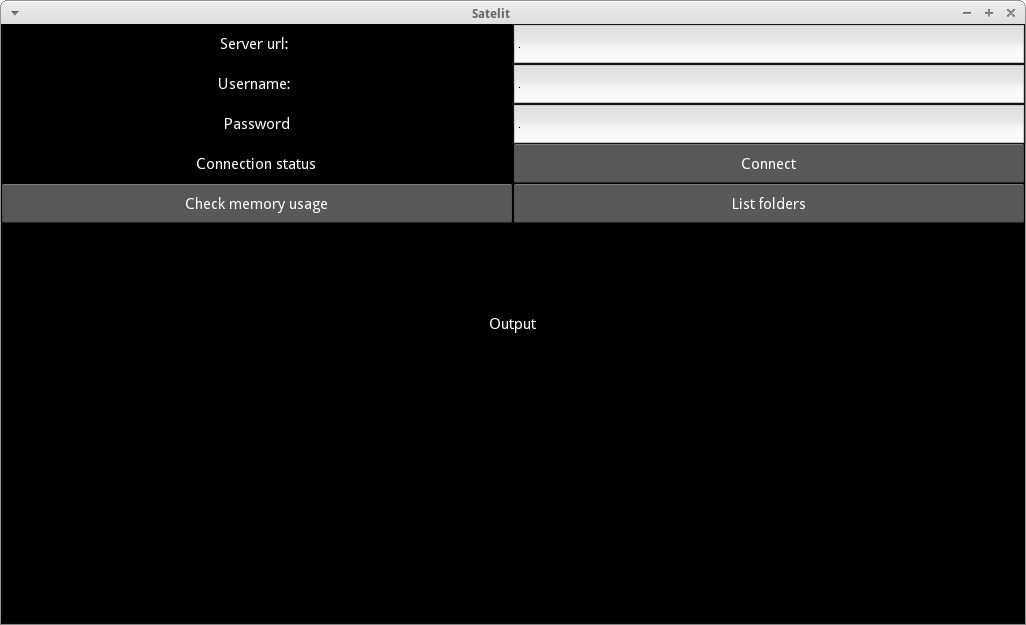
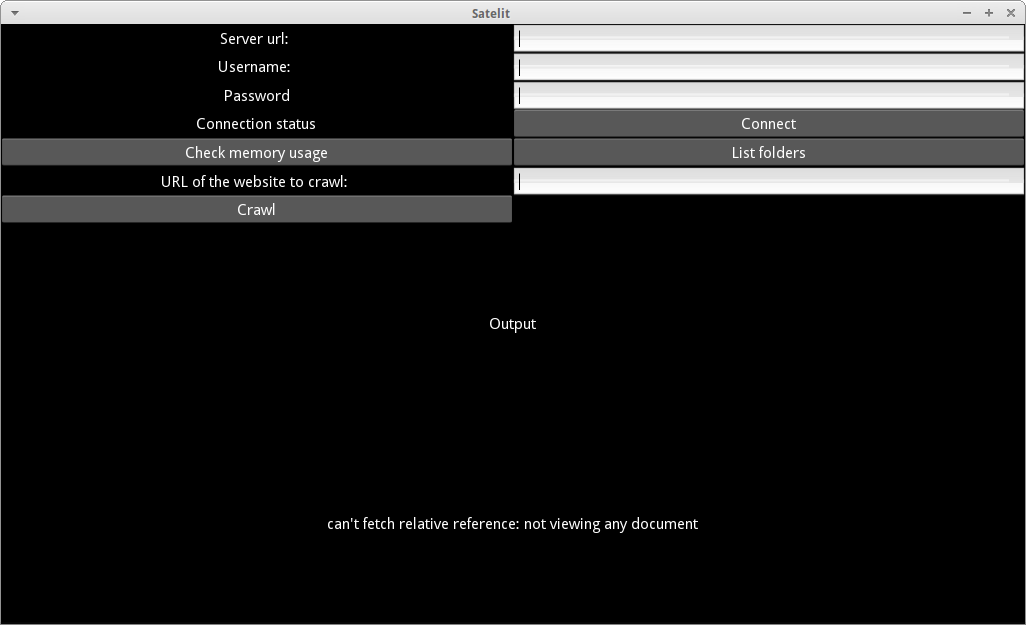
added a crawler

Changed region(s): [[0.0, 0.0608, 1.0, 0.3648], [0.3119, 0.8208, 0.6862, 0.8512]]

diff --git a/main.py b/main.py
@@ -1,4 +1,4 @@
-__version__ = '0.1'
+__version__ = '0.11'
 
 import kivy
 kivy.require('1.8.0')
@@ -10,6 +10,7 @@ from kivy.properties import StringProperty
 from kivy.storage.jsonstore import JsonStore
 
 import paramiko
+from crawler import Crawler
 
 class Root(Widget):
 	
@@ -22,11 +23,12 @@ class Root(Widget):
 	username = StringProperty(store.get('username')['value'])
 	password = StringProperty('')
 	#connection_status = StringProperty('')
+	website = StringProperty(store.get('website')['value'])
 	messages = StringProperty('')
 	
 	ssh = paramiko.SSHClient()
 	ssh.set_missing_host_key_policy(paramiko.AutoAddPolicy())
-
+	
 	def connect(self):
 		try:
 			self.ssh.connect(self.server_url, username=self.username, password=self.password)
@@ -42,6 +44,9 @@ class Root(Widget):
 				self.messages += line
 		except Exception as e:
 			print('Exception executing command: ', e)
+			# print the error to the output screen
+			m = 'Exception executing command: ' + str(e)
+			self.messages = m
 					
 	def list_folders(self):
 		try:
@@ -52,6 +57,8 @@ class Root(Widget):
 				self.messages += line
 		except Exception as e:
 			print('Exception executing command: ', e)
+			m = 'Exception executing command: ' + str(e)
+			self.messages = m
 
 	def url_to_storage(self, data):
 		self.store.put('server_url', value=data.text)
@@ -63,7 +70,18 @@ class Root(Widget):
 		
 	def password_to_storage(self, data):
 		self.password = data.text
+		
+	def website_to_storage(self, data):
+		self.store.put('website', value=data.text)
+		self.website = data.text
 	
+	def crawl(self):
+		#print('self.website: ', self.website)
+		url = self.website
+		crawler = Crawler(url)
+		crawler.crawl_all_links()
+		print('Results: ', crawler.results)
+		self.messages = crawler.results
 
 class SatelitApp(App):
 	def build(self):

diff --git a/crawler.py b/crawler.py
@@ -1,0 +1,57 @@
+import mechanize
+
+class Crawler():
+	
+	br = mechanize.Browser()
+	links = []
+	visited_links = []
+	max_depth = 10
+	depth = 0
+	results = ''
+		
+	def __init__(self, url):
+		self.url = url
+		# try to open the base URL
+		try:
+			self.opening = self.br.open(self.url)
+		except Exception as e:
+			print('Exception: ', e)
+			self.results = str(e)
+			self.opening = None
+
+	def crawl_all_links(self):
+		# if base URL is successfully opened, proceed
+		if self.opening != None:
+			pass
+		else:
+			return
+			
+		if self.depth <= self.max_depth:
+			print("Current depth level: ", self.depth)
+		
+			for link in self.br.links():
+				self.links.append(link)
+			
+				if link not in self.visited_links:
+					print('Link to follow: ', link.text)
+					response = self.br.follow_link(link)
+					self.depth += 1
+					
+					print(response.code)
+					self.results += str(response.code)
+					
+					self.visited_links.append(link)
+					print("Current url: ", self.br.geturl())
+				
+					self.crawl_all_links()
+					self.br.back()
+					self.depth -= 1
+					print("Going back")
+				
+		#print('All visited links: ')
+		for link in self.links:
+			print("Links: ", link.text)
+			
+'''url = 'http://www.example.com'
+crawler = Crawler(url)
+crawler.crawl_all_links()'''

diff --git a/README.md b/README.md
@@ -1,1 +1,2 @@
 You have many websites on your server, but you want to do some routine checks for each of them? Relieve the burden by automating the task an why not make it all fancy looking with some nice GUI? You cna add your own functions with bash commands you need to perform on the server.
+Tested with Python2.
